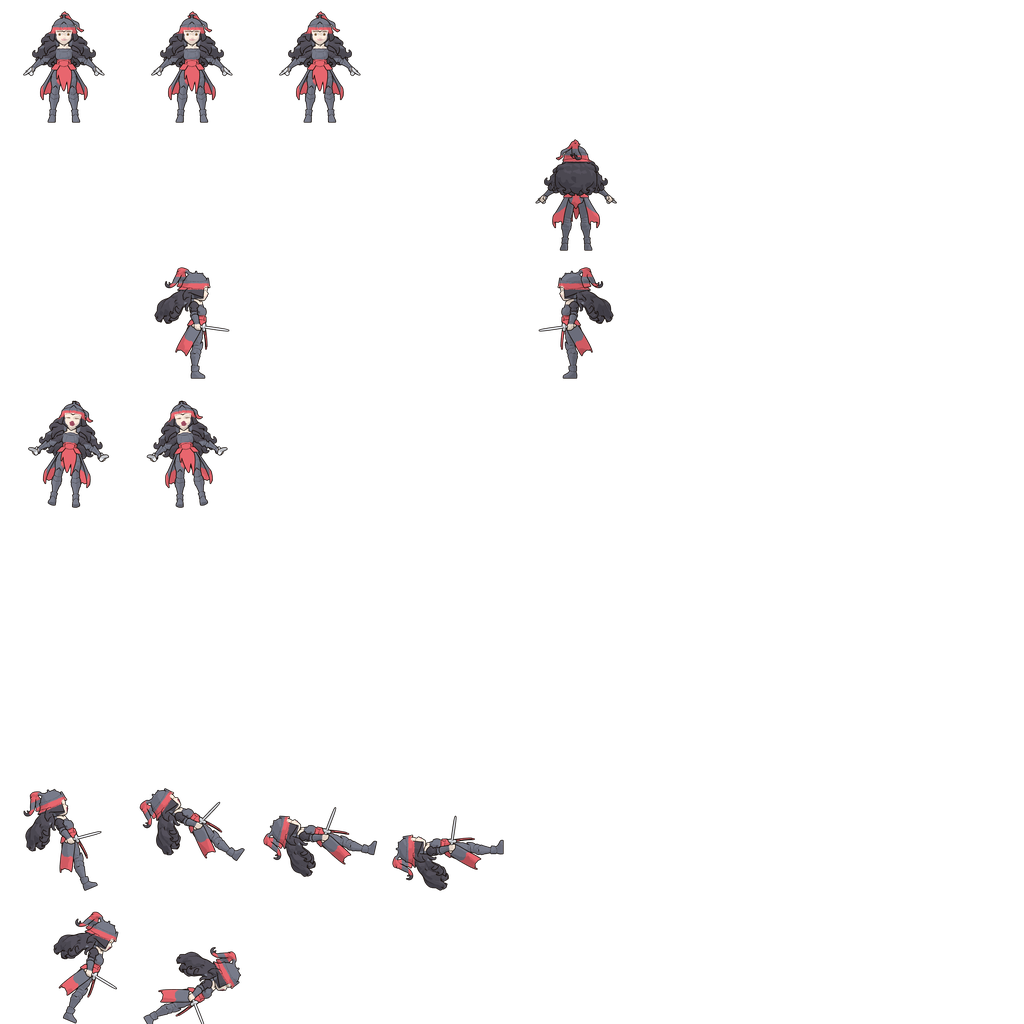
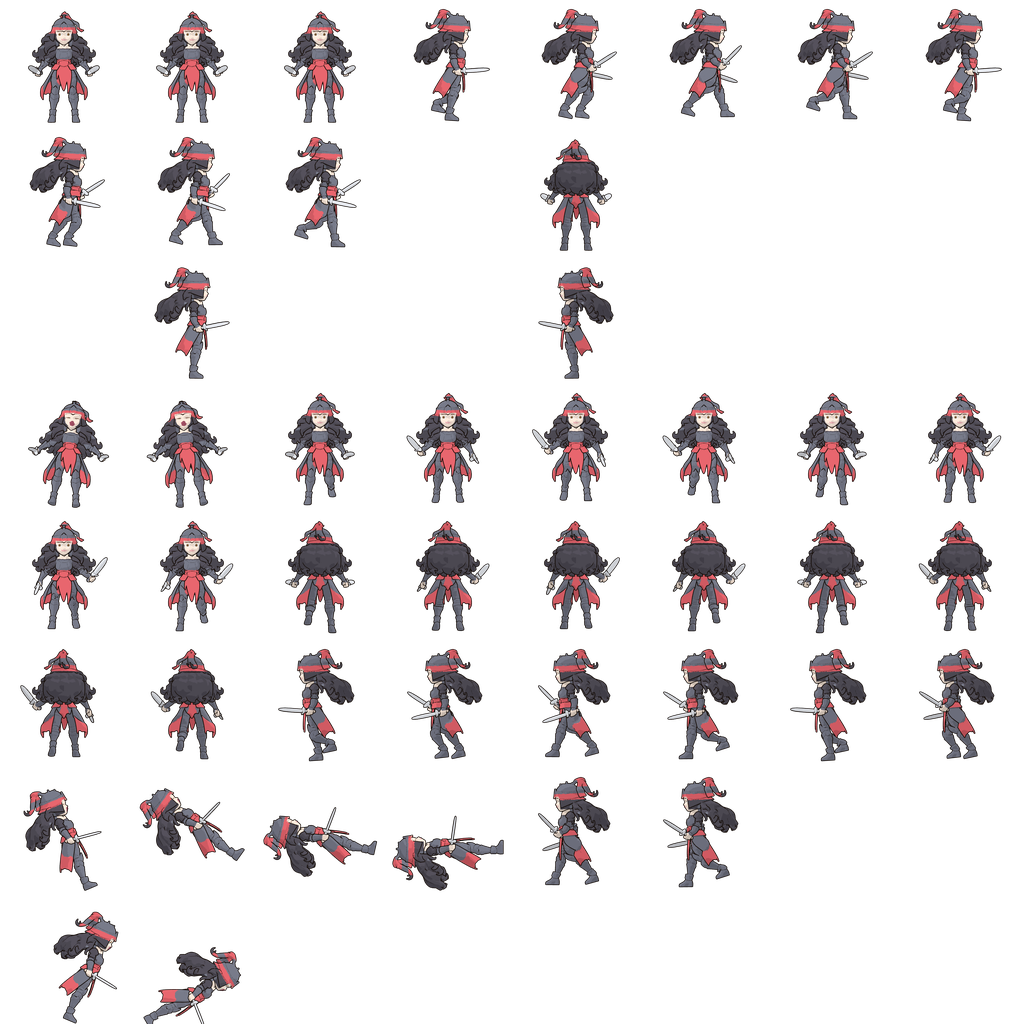
Duelista: ciclo de caminar con piernas y brazos (#38)
* Duelista: ciclo de caminar con piernas y brazos moviéndose (4 fotogramas por dirección)

Claude-Session: https://claude.ai/code/session_011NYHqmTjtGTs27T8dwrHLE

* Duelista: caminar más natural (8 fotogramas, codos y rodillas doblados, pies que pisan, brazos pegados al cuerpo)

Claude-Session: https://claude.ai/code/session_011NYHqmTjtGTs27T8dwrHLE

---------

diff --git a/tools/stl/view.html b/tools/stl/view.html
@@ -21,13 +21,26 @@ const tones = new Uint8Array([90, 170, 255]);
 const gradient = new THREE.DataTexture(tones, tones.length, 1, THREE.RedFormat); gradient.needsUpdate = true;
 gradient.minFilter = gradient.magFilter = THREE.NearestFilter;
 const body = new THREE.Mesh(geo, new THREE.MeshToonMaterial({ vertexColors: true, gradientMap: gradient }));
-// Contorno: la malla suavizada e hinchada, dibujada solo por detrás
-const sg = geo.clone(); sg.deleteAttribute('normal'); sg.deleteAttribute('color');
-const merged = mergeVertices(sg, 0.01); merged.computeVertexNormals();
-const pos = merged.attributes.position, nor = merged.attributes.normal;
 const WIDTH = 0.3;
-for (let i = 0; i < pos.count; i++) pos.setXYZ(i, pos.getX(i) + nor.getX(i) * WIDTH, pos.getY(i) + nor.getY(i) * WIDTH, pos.getZ(i) + nor.getZ(i) * WIDTH);
-const outline = new THREE.Mesh(merged, new THREE.MeshBasicMaterial({ color: 0x140c07, side: THREE.BackSide }));
+const basePos = geo.attributes.position.array.slice();
+let outline = null;
+function buildOutline() {
+  const sg = geo.clone(); sg.deleteAttribute('normal'); sg.deleteAttribute('color');
+  const merged = mergeVertices(sg, 0.01); merged.computeVertexNormals();
+  const pos = merged.attributes.position, nor = merged.attributes.normal;
+  for (let i = 0; i < pos.count; i++) pos.setXYZ(i, pos.getX(i) + nor.getX(i) * WIDTH, pos.getY(i) + nor.getY(i) * WIDTH, pos.getZ(i) + nor.getZ(i) * WIDTH);
+  const m = new THREE.Mesh(merged, new THREE.MeshBasicMaterial({ color: 0x140c07, side: THREE.BackSide }));
+  return m;
+}
+outline = buildOutline();
+let curPos = 'base';
+async function setPose(name) {
+  if (name === curPos) return;
+  const arr = name === 'base' ? basePos : new Float32Array(await (await fetch(`pos_${name}.bin`)).arrayBuffer());
+  geo.attributes.position.array.set(arr); geo.attributes.position.needsUpdate = true; geo.computeVertexNormals();
+  group.remove(outline); outline.geometry.dispose();
+  outline = buildOutline(); group.add(outline); curPos = name;
+}
 scene.add(body, outline);
 scene.add(new THREE.AmbientLight(0xffffff, 1.1));
 const dl = new THREE.DirectionalLight(0xffffff, 2.2); dl.position.set(-40, -60, 80); scene.add(dl);
@@ -36,6 +49,7 @@ const SIDE = { frente: [0, -100], atras: [0, 100], izq: [-100, 0], der: [100, 0]
 // o = { col, view, size, half, zc, rot:[x,y,z], ground, center, cx }
 window.render = async (o) => {
   if (o.col) await loadCol(o.col);
+  await setPose(o.pose || 'base');
   renderer.setSize(o.size, o.size);
   group.rotation.set(0, 0, 0); group.position.set(0, 0, 0);
   const [rx, ry, rz] = o.rot || [0, 0, 0];

diff --git a/src/atlas.ts b/src/atlas.ts
@@ -25,6 +25,8 @@ export interface AtlasLayout {
   dying: readonly [number, number, number, number];
   stumble: number;
   fall: number;
+  /** Ciclo de paso por dirección (si la hoja lo tiene): ocho fotogramas, un paso completo (dos apoyos). */
+  walk?: Record<'N' | 'E' | 'S' | 'O', readonly number[]>;
 }
 
 export const LAYOUTS: Record<string, AtlasLayout> = {
@@ -66,6 +68,7 @@ export const LAYOUTS: Record<string, AtlasLayout> = {
     dying: [48, 49, 50, 51],
     stumble: 56,
     fall: 57,
+    walk: { S: [26, 27, 28, 29, 30, 31, 32, 33], N: [34, 35, 36, 37, 38, 39, 40, 41], E: [3, 4, 5, 6, 7, 8, 9, 10], O: [42, 43, 44, 45, 46, 47, 52, 53] },
   },
 };
 
@@ -94,6 +97,13 @@ export interface FramePick {
  */
 export function pickFrame(layout: AtlasLayout, look: Pick<WarriorLook, 'facing' | 'moving' | 'walkAngle' | 'hurt' | 'alerted' | 'pose'>): FramePick {
   if (look.pose !== undefined) return { index: look.pose, mirror: false, hop: 0 };
+  if (look.moving && layout.walk) {
+    const cycle = layout.walk[look.facing];
+    // Un paso completo (dos apoyos) por cada giro de `walkAngle`·2; el cuerpo sube al pasar la pierna y baja al apoyar
+    const phase = (((look.walkAngle * 2) / (Math.PI * 2)) % 1 + 1) % 1;
+    const step = Math.floor(phase * cycle.length + 0.5) % cycle.length;
+    return { index: cycle[step], mirror: false, hop: Math.abs(Math.cos(phase * Math.PI * 2)) * 0.025 };
+  }
   if (look.moving) {
     const icon = layout.move[look.facing];
     return { index: icon.index, mirror: icon.mirror, hop: Math.abs(Math.sin(look.walkAngle * 2)) * 0.035 };

diff --git a/tests/atlas.test.ts b/tests/atlas.test.ts
@@ -35,6 +35,16 @@ describe('pickFrame', () => {
       expect([east.mirror, west.mirror]).toEqual([false, false]);
     }
   });
+  it('la duelista camina con un ciclo de ocho fotogramas por dirección', () => {
+    const seen = new Set<number>();
+    for (let a = 0; a < Math.PI; a += 0.05) {
+      const pick = pickFrame(duelista, { ...base, facing: 'E', moving: true, walkAngle: a });
+      expect(duelista.walk?.E).toContain(pick.index);
+      expect(pick.hop).toBeGreaterThanOrEqual(0);
+      seen.add(pick.index);
+    }
+    expect(seen.size).toBe(8);
+  });
   it('el salto del paso es pequeño y no negativo', () => {
     for (const a of [0, 1, 2, 3, 4, 5, 6]) {
       const hop = pickFrame(barbaro, { ...base, moving: true, walkAngle: a }).hop;

diff --git a/tools/stl/pose.py b/tools/stl/pose.py
@@ -1,0 +1,73 @@
+"""Mueve piernas y brazos del modelo: pose.py <nombre> <cadera_izq> <cadera_der> <rodilla_izq> <rodilla_der> <brazo_izq> <brazo_der> (radianes, giro sobre el eje x)"""
+import sys
+import numpy as np
+t=np.load('/tmp/claude-0/stl/tri.npy').astype(np.float64)  # N,3,3
+label=np.load('/tmp/claude-0/stl/label_base.npy')
+N=len(t); V=t.reshape(-1,3); x,y,z=V.T
+tl=np.repeat(label,3)
+def clamp01(a): return np.clip(a,0,1)
+def smooth(a): a=clamp01(a); return a*a*(3-2*a)
+AD=0.38
+HIP_Z=21.0; KNEE_Z=10.8
+W={}
+for side,sg in (('L',-1),('R',1)):
+    # la bota sobresale por delante: elipse más ancha a ras de suelo
+    low=z<8.5
+    d=np.sqrt(((np.abs(x)-5.2)/4.6)**2+((y-np.where(low,-2.5,-0.8))/np.where(low,7.0,4.4))**2)
+    tube=smooth((1.0-d)/0.25)*(np.sign(x)==sg)
+    wleg=tube*smooth((25.0-z)/6.0)
+    wshin=smooth((12.6-z)/3.0)
+    # brazo: cápsula del hombro a la mano
+    S=np.array([sg*8.0,-0.8,32.0]); H=np.array([sg*15.5,-1.5,21.5])
+    seg=H-S; L2=seg@seg
+    tt=clamp01(((V-S)@seg)/L2)
+    proj=S+tt[:,None]*seg
+    dist=np.linalg.norm(V-proj,axis=1)
+    warm=smooth((3.4-dist)/0.8)*smooth((tt-0.08)/0.25)*(np.sign(x)==sg)
+    # hojas de las espadas (delante de la mano) y manos van con el brazo
+    blade=(tl==4)&(np.sign(x)==sg)&(np.abs(x)>9)
+    hand=(np.abs(x)>13.0)&(z>17.5)&(z<25.5)&(y>-5.5)&(y<4.0)&(np.sign(x)==sg)&(tl!=2)
+    warm=np.maximum(warm,np.maximum(blade,hand).astype(float))
+    warm=np.where(tl==2,0.0,warm)
+    wleg=np.where(warm>0.5,0.0,wleg)
+    wfoot=smooth((4.8-z)/1.6)
+    wfore=np.where((blade|hand),1.0,smooth((tt-0.45)/0.2))*(warm>0)
+    W[side]=(wleg,wshin,warm,wfoot,wfore)
+def rot(P,Pivot,ang,w):
+    dy=P[:,1]-Pivot[1]; dz=P[:,2]-Pivot[2]
+    c,s=np.cos(ang*w),np.sin(ang*w)
+    Q=P.copy()
+    Q[:,1]=Pivot[1]+dy*c-dz*s
+    Q[:,2]=Pivot[2]+dy*s+dz*c
+    return Q
+def pose(name,hipL,hipR,kneeL,kneeR,ankL,ankR,swL,swR,flL,flR):
+    P=V.copy()
+    for side,sg,hip,knee,ank,sw,fl in (('L',-1,hipL,kneeL,ankL,swL,flL),('R',1,hipR,kneeR,ankR,swR,flR)):
+        wleg,wshin,warm,wfoot,wfore=W[side]
+        sel=wleg>0
+        P[sel]=rot(P[sel],np.array([sg*5.2,-1.4,3.0]),ank,(wfoot)[sel])
+        P[sel]=rot(P[sel],np.array([sg*5.2,-1.2,KNEE_Z]),knee,(wshin)[sel])
+        P[sel]=rot(P[sel],np.array([sg*5.2,-0.8,HIP_Z]),hip,wleg[sel])
+        sel=warm>0
+        P[sel]=rot(P[sel],np.array([sg*11.7,-1.1,26.7]),fl,wfore[sel])
+        P[sel]=rot(P[sel],np.array([sg*8.0,-0.8,32.0]),sw,warm[sel])
+        # los brazos pegados al cuerpo (en la T original parecen de muñeca)
+        Q=P[sel]; w=warm[sel]; piv=np.array([sg*8.0,-0.8,32.0]); a=sg*AD*w
+        dx=Q[:,0]-piv[0]; dz=Q[:,2]-piv[2]
+        Q[:,0]=piv[0]+dx*np.cos(a)+dz*np.sin(a); Q[:,2]=piv[2]-dx*np.sin(a)+dz*np.cos(a)
+        P[sel]=Q
+    P.astype(np.float32).tofile(f'/tmp/claude-0/r3d/pos_{name}.bin')
+def walk_params(phi,A=0.5,K=0.95,B=0.42):
+    import math
+    s,c=math.sin(phi),math.cos(phi)
+    hipR,hipL=-A*s,A*s
+    kneeR=K*max(0,c)+0.12; kneeL=K*max(0,-c)+0.12
+    # pie plano en el suelo; al despegar la punta baja un poco
+    ankR=-(hipR+kneeR)*0.85+0.25*max(0,hipR); ankL=-(hipL+kneeL)*0.85+0.25*max(0,hipL)
+    swR,swL=B*s,-B*s
+    flR=-0.35-0.3*max(0,-swR/B); flL=-0.35-0.3*max(0,-swL/B)
+    return hipL,hipR,kneeL,kneeR,ankL,ankR,swL,swR,flL,flR
+if __name__=='__main__':
+    import math
+    for i in range(8): pose(f'w{i}',*walk_params(i*math.pi/4))
+    pose('idle',0.0,0.0,0.1,0.1,-0.09,-0.09,0.12,0.12,-0.55,-0.55)

diff --git a/tools/stl/assemble.py b/tools/stl/assemble.py
@@ -3,8 +3,13 @@ from PIL import Image, ImageDraw
 O='/tmp/claude-0/stl/out/'
 def load(n): return Image.open(O+n+'.png').convert('RGBA')
 atlas=Image.new('RGBA',(1024,1024),(0,0,0,0))
+WALK={'S':list(range(26,34)),'N':list(range(34,42)),'E':list(range(3,11)),'O':[42,43,44,45,46,47,52,53]}
+for d,idx in WALK.items():
+    for k,i in enumerate(idx):
+        f=load(f'w{d}{k}').resize((128,128),Image.LANCZOS)
+        r,c=divmod(i,8); atlas.alpha_composite(f,(c*128,r*128))
 for i in [0,1,2,12,17,20,24,25,48,49,50,51,56,57]:
-    f=load(f'a{i}').resize((128,128),Image.LANCZOS)
+    f=load(f'i{i}' if i in (0,1,2,12,17,20) else f'a{i}').resize((128,128),Image.LANCZOS)
     r,c=divmod(i,8); atlas.alpha_composite(f,(c*128,r*128))
 atlas.save('/tmp/claude-0/stl/atlas_duelista.png')
 strip=Image.new('RGBA',(2048,256),(0,0,0,0))
